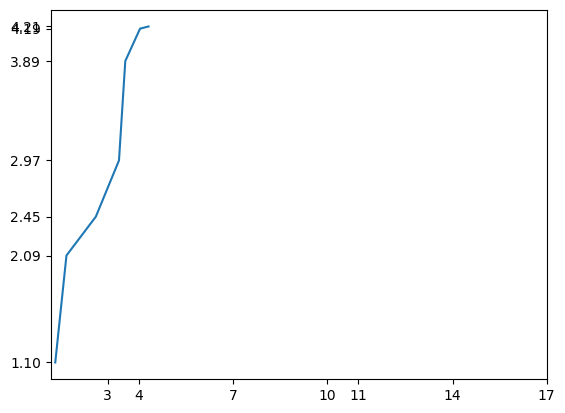
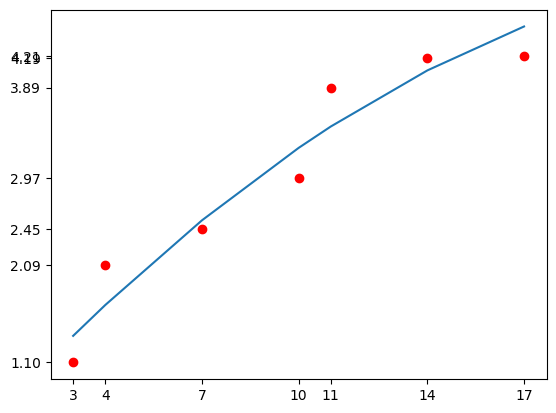
done

diff --git a/main.py b/main.py
@@ -36,37 +36,61 @@ def makePlot(X, Y):
 
 
 def makeParabol(X, Y, cofs):
-    cord_X = []
+    cord_Y = []
     for i in range(len(X)):
-        cord_X.append((cofs[0] * pow(X[i], 2)) + cofs[1] * X[i] + cofs[2])
+        cord_Y.append((cofs[0] * pow(X[i], 2)) + cofs[1] * X[i] + cofs[2])
     plt.clf()
-    plt.plot(cord_X, Y)
+    plt.plot(X, Y, marker='o', color='r', ls='')
+    plt.plot(X, cord_Y)
     # plt.grid(True)
     plt.yticks(Y)
     plt.xticks(X)
     plt.savefig("C:/Users/Oleh/Documents/GitHub/Stastics-rgrshn/Quadratic.png", bbox_inches='tight')
 
 
-def makeGiperbol(X, cofs):
-    plt.clf()
+def makeHyperbol(X, Y, cofs):
+    cord_Y = []
+    for i in range(len(X)):
+        cord_Y.append((cofs[0] / X[i]) + cofs[1])
 
+    plt.clf()
+    plt.plot(X, Y, marker='o', color='r', ls='')
+    plt.plot(X, cord_Y)
     # plt.grid(True)
     plt.yticks(Y)
     plt.xticks(X)
-    plt.savefig("C:/Users/Oleh/Documents/GitHub/Stastics-rgrshn/Quadratic.png", bbox_inches='tight')
+    plt.savefig("C:/Users/Oleh/Documents/GitHub/Stastics-rgrshn/Hyperbolic.png", bbox_inches='tight')
 
 
-def parabolic_corelation(X, Y):
-    import numpy as np
+def makePower(X, Y, cofs):
+    cord_Y = []
+    for i in range(len(X)):
+        cord_Y.append((cofs[1] * pow(cofs[0], X[i])))
 
-    X_matrix = np.array([[x ** 2, x, 1] for x in X])
-    Y_vector = np.array(Y)
+    plt.clf()
+    plt.plot(X, Y, marker='o', color='r', ls='')
+    plt.plot(X, cord_Y)
+    # plt.grid(True)
+    plt.yticks(Y)
+    plt.xticks(X)
+    plt.savefig("C:/Users/Oleh/Documents/GitHub/Stastics-rgrshn/Power.png", bbox_inches='tight')
 
-    coefficients = np.linalg.lstsq(X_matrix, Y_vector, rcond=None)[0]
-    return coefficients
+
+def makeSqrt(X, Y, cofs):
+    cord_Y = []
+    for i in range(len(X)):
+        cord_Y.append(cofs[0] * np.sqrt(X[i] + cofs[1]))
+
+    plt.clf()
+    plt.plot(X, Y, marker='o', color='r', ls='')
+    plt.plot(X, cord_Y)
+    # plt.grid(True)
+    plt.yticks(Y)
+    plt.xticks(X)
+    plt.savefig("C:/Users/Oleh/Documents/GitHub/Stastics-rgrshn/SQRT.png", bbox_inches='tight')
 
 
-def parabolic_corelation_new(X,meanY,ni):
+def parabolic_corelation(X, meanY, ni):
     k = len(X)
     sum_n = 0
     sum_xn = 0
@@ -77,30 +101,110 @@ def parabolic_corelation_new(X,meanY,ni):
     sum_xny = 0
     sum_xxny = 0
 
-    for i in range(len(k)):
+    for i in range(k):
         sum_n += ni[i]
-        sum_xn += X[i]*ni[i]
-        sum_xxn += pow(X[i], 2)*ni[i]
+        sum_xn += X[i] * ni[i]
+        sum_xxn += pow(X[i], 2) * ni[i]
         sum_xxxn += pow(X[i], 3) * ni[i]
         sum_xxxxn += pow(X[i], 4) * ni[i]
-        sum_ny += ni[i]*meanY[i]
-        sum_xny += X[i]*ni[i]*meanY[i]
-        sum_xxny += pow(X[i], 2)*ni[i]*meanY[i]
+        sum_ny += ni[i] * meanY[i]
+        sum_xny += X[i] * ni[i] * meanY[i]
+        sum_xxny += pow(X[i], 2) * ni[i] * meanY[i]
 
-    left_side = np.array([[sum_xxxxn, sum_xxxn, sum_xxn],[sum_xxxn,sum_xxn,sum_xn],[sum_xxn,sum_xn,sum_n]])
-    right_side = np.array([sum_xxny,sum_xny,sum_ny])
+    left_side = np.array([[sum_xxxxn, sum_xxxn, sum_xxn], [sum_xxxn, sum_xxn, sum_xn], [sum_xxn, sum_xn, sum_n]])
+    right_side = np.array([sum_xxny, sum_xny, sum_ny])
 
-    print(np.linalg.inv(left_side).dot(right_side))
-
-
+    return np.linalg.inv(left_side).dot(right_side)
 
 
-def giperbolic_corelation(X, Y):
-    X_matrix = np.array([1 / X, np.ones_like(X)]).T
-    Y_vector = np.array(Y)
+def hyperbolic_corelation(X, meanY, ni):
+    k = len(X)
+    sum_n = 0
+    sum_xn = 0
+    sum_xxn = 0
+    sum_yn = 0
+    sum_xyn = 0
 
-    coefficients = np.linalg.lstsq(X_matrix, Y_vector, rcond=None)[0]
-    return coefficients
+    for i in range(k):
+        sum_n += ni[i]
+        sum_xn += (1 / X[i]) * ni[i]
+        sum_xxn += (1 / pow(X[i], 2)) * ni[i]
+        sum_yn += meanY[i] * ni[i]
+        sum_xyn += (1 / X[i]) * meanY[i] * ni[i]
+
+    left_side = np.array([[sum_xn, sum_n], [sum_xxn, sum_xn]])
+    right_side = np.array([sum_yn, sum_xyn])
+
+    return np.linalg.inv(left_side).dot(right_side)
+
+
+def power_corelation(X, meanY, ni):
+    k = len(X)
+    sum_n = 0
+    sum_xn = 0
+    sum_xxn = 0
+    sum_yn = 0
+    sum_xyn = 0
+
+    for i in range(k):
+        sum_n += ni[i]
+        sum_xn += X[i] * ni[i]
+        sum_xxn += pow(X[i], 2) * ni[i]
+        sum_yn += np.log10(meanY[i]) * ni[i]
+        sum_xyn += np.log10(meanY[i]) * ni[i] * X[i]
+
+    left_side = np.array([[sum_xn, sum_n], [sum_xxn, sum_xn]])
+    right_side = np.array([sum_yn, sum_xyn])
+    cofs = np.linalg.inv(left_side).dot(right_side)
+    return [np.log10(cofs[0]), np.log10(cofs[1])]
+
+
+def sqrt_corelation(X, meanY, ni):
+    k = len(X)
+    sum_n = 0
+    sum_xn = 0
+    sum_xxn = 0
+    sum_yn = 0
+    sum_xyn = 0
+
+    for i in range(k):
+        sum_n += ni[i]
+        sum_xn += np.sqrt(X[i]) * ni[i]
+        sum_xxn += X[i] * ni[i]
+        sum_yn += meanY[i] * ni[i]
+        sum_xyn += np.sqrt(X[i]) * meanY[i] * ni[i]
+
+    left_side = np.array([[sum_xn, sum_n], [sum_xxn, sum_xn]])
+    right_side = np.array([sum_yn, sum_xyn])
+
+    return np.linalg.inv(left_side).dot(right_side)
+
+
+def dispertion(table, Y, meanY, X, ni):
+    sum = 0
+    for i in range(len(Y)):
+        for j in range(len(X)):
+            sum += pow((Y[i] - meanY[i]), 2) * table[i][j]
+
+    sum_n = 0
+    for i in range(len(ni)):
+        sum_n += ni[i]
+
+    return sum / sum_n
+
+
+def sqr_sum(table, Y, meanY, X, ni):
+    def yx(i):
+        sum_ = 0
+        for j in range(len(Y)):
+            sum_ += Y[j] * table[j][i]
+        return sum_ / ni[i]
+
+    sum_ = 0
+    for i in range(len(X)):
+        sum_ += pow(np.abs(yx(i) - meanY[i]), 2) * ni[i]
+
+    return sum_
 
 
 correlation_x = [3, 4, 7, 10, 11, 14, 17]
@@ -113,27 +217,46 @@ correlation_table = [
     [0, 0, 0, 0, 16, 4, 4],
     [0, 0, 0, 0, 0, 22, 3]
 ]
+
 correlation_ni = ni(correlation_table)
 correlation_means = conditional_means(correlation_table, correlation_y, correlation_ni)
-coeficients = parabolic_corelation(correlation_x, correlation_means)
 
-parabolic_corelation_new(correlation_x,correlation_means,correlation_ni)
-
-makePlot(correlation_x, correlation_means)
-makeParabol(correlation_x, correlation_means, coeficients)
-
-'''while True:
+while True:
+    print("\n1 - Поле кореляції\n2 - Параболічна кореляція\n3 - Гіперболічна кореляція\n4 - Показникова кореляція\n5 - Коренева кореляція\n6 - Дисперсія\n7 - Сума квадратних відхилень умовних середніх\n0 - Вихід\n")
     option = int(input("enter option == "))
     if option == 1:
+        print("Поле кореляції")
         makePlot(correlation_x, correlation_means)
+        plt.show()
     if option == 2:
-        coeficients = parabolic_corelation(correlation_x, correlation_means)
+        print("Параболічна кореляція")
+        coeficients = parabolic_corelation(correlation_x, correlation_means, correlation_ni)
+        print(coeficients)
         makeParabol(correlation_x, correlation_means, coeficients)
+        plt.show()
     if option == 3:
-        break
+        print("Гіперболічна кореляція")
+        coeficients = hyperbolic_corelation(correlation_x, correlation_means, correlation_ni)
+        print(coeficients)
+        makeHyperbol(correlation_x, correlation_means, coeficients)
+        plt.show()
     if option == 4:
-        break
+        print("Показникова кореляція")
+        coeficients = power_corelation(correlation_x, correlation_means, correlation_ni)
+        print(coeficients)
+        makePower(correlation_x, correlation_means, coeficients)
+        plt.show()
     if option == 5:
-        break
+        print("Коренева кореляція")
+        coeficients = sqrt_corelation(correlation_x, correlation_means, correlation_ni)
+        print(coeficients)
+        makeSqrt(correlation_x, correlation_means, coeficients)
+        plt.show()
+    if option == 6:
+        print("Дисперсія")
+        print(dispertion(correlation_table, correlation_y, correlation_means, correlation_x, correlation_ni))
+    if option == 7:
+        print("Сума квадратних відхилень умовних середніх")
+        print(sqr_sum(correlation_table, correlation_y, correlation_means, correlation_x, correlation_ni))
     if option == 0:
-        break'''
+        break
